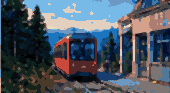
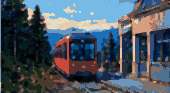
Add ambient background NPCs, cut from the already-uploaded concept pack
Ingrid asked to use assets that already exist in the pack instead of
leaving them unused. tools/build-pack-v2.py only ever cut two things
from assets/pack-v2/'s 15 concept sheets (locations, folklore); the
04_npc_tourists.png sheet has sat there unused since the pack was
first uploaded.

Connected-component analysis found the sheet's figures touch or
overlap at almost every column — one blob covers nearly the whole
image — so individual characters can't be isolated cleanly. What IS
separable, by measured column-density gaps (same method already used
for the location grid), are three natural clusters: a pair, a group
with a dog, and a family with an umbrella. Cut those, through the
same shared-palette + alpha-preserving pipeline already built for
locations and folklore (to_palette's keep_alpha flag now also covers
"npc"), registered in data/pack-v2.json like everything else the
script cuts.

New AMBIENT system in trail-mix-v2.html renders one of these vignettes
per chapter, at a shallow depth behind the tree line, capped at 50%
opacity so it always reads as background rather than competing with
Jack, Ingrid or a cast folklore being. Density follows
data/route.json's own npc_density per stop — except Sandviken sykehus,
deliberately left empty (folklore is banned there for the same
asylum-horror-trope reason; cheerful tourists would work against the
MEMORY theme the same way), and the forest, also left empty so an
[…]

diff --git a/trail-mix-v2.html b/trail-mix-v2.html
@@ -1727,6 +1727,78 @@
             }
         };
 
+        // Ambient background life — tourists and hikers passing at a distance.
+        // Pure decoration: no interaction, nothing to find, nothing written to
+        // the archive. Density per stop mirrors data/route.json's own
+        // npc_density field. Sandviken sykehus stays empty on purpose — that
+        // stop is folklore_permitted:false for the same asylum-horror-trope
+        // reason, and cheerful tourists would work against the MEMORY theme
+        // the same way a cast being would. The forest is also left empty even
+        // though its density is "sparse", so a passer-by is never mistaken
+        // for Huldra, who uses the same off-to-the-side treatment there.
+        var STOP_NPC = {
+            'sandviken-sykehus': null,
+            'munkebotn': 'hikers-pair',
+            'sandviksbatteriet': 'hikers-pair',
+            'sandvikspilen': 'hikers-group',
+            'forest-transition': null,
+            'floyen': 'hikers-family',
+            'floibanen': 'hikers-family'
+        };
+
+        var AMBIENT = {
+            live: [], art: {},
+            load: function () {
+                var self = this;
+                ['hikers-pair', 'hikers-group', 'hikers-family'].forEach(function (id) {
+                    var im = new Image();
+                    im.src = 'assets/npcs/' + id + '.png';
+                    self.art[id] = im;
+                });
+            },
+            seed: function (chapter) {
+                this.live = [];
+                var npc = STOP_NPC[STOP_IDS[chapter]];
+                if (!npc) return;
+                var len = CH[chapter].dist;
+                this.live.push({
+                    npc: npc, a: 0,
+                    world: len * (0.4 + Math.random() * 0.3),
+                    depth: 0.32 + Math.random() * 0.08,
+                    side: Math.random() < 0.5 ? -1 : 1
+                });
+            },
+            update: function (dt) {
+                this.live.forEach(function (g) {
+                    var near = Math.abs(g.world - S.dist) < 220;
+                    // Ambient life never reaches full strength — it stays
+                    // clearly background, whether or not the player stops.
+                    g.a = clamp(g.a + (near ? 1 : -1) * dt * 0.6, 0, 0.5);
+                });
+            },
+            screenX: function (g) {
+                var anchor = g.side < 0 ? W * 0.08 : W * 0.94;
+                return (g.world - S.dist) * g.depth + anchor;
+            },
+            draw: function () {
+                var self = this;
+                this.live.forEach(function (g) {
+                    if (g.a <= 0.01) return;
+                    var im = self.art[g.npc];
+                    if (!im || !im.complete || !im.naturalWidth) return;
+                    var x = Math.round(self.screenX(g));
+                    var h = Math.round((GROUND - 18) * 0.24 * g.depth + 22);
+                    var w = Math.round(h * (im.naturalWidth / im.naturalHeight));
+                    if (x + w / 2 < -40 || x - w / 2 > W + 40) return;
+                    var y = Math.round(GROUND - h + 4);
+                    ctx.save();
+                    ctx.globalAlpha = g.a;
+                    ctx.drawImage(im, Math.round(x - w / 2), y, w, h);
+                    ctx.restore();
+                });
+            }
+        };
+
         function archNoteBeing(b) {
             var a = archRead();
             a.beings = a.beings || [];
@@ -1789,6 +1861,7 @@
             S.items = [];
             S.nextItem = 40 + Math.random() * 50;
             BEINGS.seed(S.chapter);
+            AMBIENT.seed(S.chapter);
         }
 
         function spawnItem() {
@@ -2396,6 +2469,7 @@
             tile(tintCache('mid', '#241d38'), -S.cam * 0.18, 0.95);
             tile(tintCache('treeFar', '#141d18'), -S.cam * 0.42);
             drawFog(ch);
+            AMBIENT.draw();
             tile(tintCache('treeNear', '#0d140f'), -S.cam * 0.9);
             drawGround(ch);
             drawSign();
@@ -3083,6 +3157,7 @@
         }
 
         BEINGS.load();
+        AMBIENT.load();
 
         el('rmArchBtn').addEventListener('click', function () { archOpen(); });
         el('rmArchClose').addEventListener('click', function () { hide('rmArch'); });
@@ -3171,6 +3246,7 @@
             beatUpdate(dt);
             updateItems(dt);
             BEINGS.update(dt);
+            AMBIENT.update(dt);
 
             if (S.phase === 'walk' && S.walking) {
                 var speed = 76 * (0.82 + (S.energy / 100) * 0.36);

diff --git a/trail/sw.js b/trail/sw.js
@@ -1,5 +1,5 @@
 
-var CACHE = 'trailmix-trail-1709de78';
+var CACHE = 'trailmix-trail-bf7dedaa';
 var FILES = ["/assets/folklore/draugen.png", "/assets/folklore/fossegrimen.png", "/assets/folklore/huldra.png", "/assets/folklore/mare.png", "/assets/folklore/nisse.png", "/assets/folklore/nokken.png", "/assets/folklore/troll.png", "/assets/folklore/underjordiske.png", "/assets/locations/city-edge.png", "/assets/locations/floibanen-top.png", "/assets/locations/floyen.png", "/assets/locations/sandviken-sykehus.png", "/assets/locations/sandvikspilen.png", "/assets/locations/trail-forest.png", "/trail/", "/trail/floibanen/", "/trail/floyen/", "/trail/forest-transition/", "/trail/munkebotn/", "/trail/print.html", "/trail/sandviken-sykehus/", "/trail/sandviksbatteriet/", "/trail/sandvikspilen/"];
 self.addEventListener('install', function(e){
   e.waitUntil(caches.open(CACHE).then(function(c){

diff --git a/tools/build-pack-v2.py b/tools/build-pack-v2.py
@@ -62,6 +62,21 @@ FOLK_COLS = [(491, 543), (560, 609), (624, 702), (713, 776),
 FOLK_NAMES = ["huldra", "nokken", "troll", "fossegrimen",
               "draugen", "mare", "nisse", "underjordiske"]
 
+# NPC vignettes cut from 04_npc_tourists.png. The sheet's figures touch or
+# overlap at almost every column — connected-component analysis found one
+# blob covering nearly the whole image — so individual figures can't be
+# isolated cleanly. What IS separable are three natural clusters, bounded by
+# the sheet's only real gaps (measured by per-column pixel-density gaps,
+# same method as LAND_COLS above). Used as small ambient vignettes, not
+# individually posable sprites — consistent with what the source actually
+# supports rather than force-fitting a grid that isn't there.
+NPCS = [
+    # (crop box, output name)
+    ((0, 0, 106, 98), "hikers-pair"),
+    ((156, 0, 369, 98), "hikers-group"),
+    ((381, 0, 520, 98), "hikers-family"),
+]
+
 QUARANTINE_SHEETS = [
     ("12_history_archive.png",
      "Fabricated archival photographs carrying hallucinated captions and dates — "
@@ -227,7 +242,7 @@ def main():
 
     reg = {"_comment": "What tools/build-pack-v2.py cut from the concept pack, and "
                        "what it refused. Source art stays in assets/pack-v2/.",
-           "locations": [], "folklore": [], "quarantined": []}
+           "locations": [], "folklore": [], "npcs": [], "quarantined": []}
 
     # Pass one: cut every crop, in memory. Pass two: derive one palette from all
     # of them together, then write. The palette cannot be built until every crop
@@ -251,11 +266,19 @@ def main():
                       ROOT / "assets" / "folklore" / f"{name}.png",
                       "folklore", name, None, None))
 
+    npc_sheet_path = PACK / "04_npc_tourists.png"
+    if npc_sheet_path.exists():
+        npc_sheet = Image.open(npc_sheet_path).convert("RGBA")
+        for box, name in NPCS:
+            crops.append((autotrim(npc_sheet.crop(box)),
+                          ROOT / "assets" / "npcs" / f"{name}.png",
+                          "npc", name, None, None))
+
     palette = build_shared_palette([c[0] for c in crops])
 
     for img, dest, kind, name, stop, reason in crops:
         dest.parent.mkdir(parents=True, exist_ok=True)
-        to_palette(img, palette, keep_alpha=(kind == "folklore")).save(dest, optimize=True)
+        to_palette(img, palette, keep_alpha=(kind in ("folklore", "npc"))).save(dest, optimize=True)
         p = dest.relative_to(ROOT).as_posix()
         if kind == "quarantined":
             reg["quarantined"].append(
@@ -265,6 +288,12 @@ def main():
                                      "kind": "concept_art", "status": "unverified",
                                      "note": "Painted interpretation, not a photograph. "
                                              "Carries no factual claim."})
+        elif kind == "npc":
+            reg["npcs"].append({"id": name, "asset": p,
+                                "note": "Ambient background vignette, not an individually "
+                                        "posable character — the source sheet's figures "
+                                        "touch at almost every column, so a small cluster "
+                                        "is what the art actually supports."})
         else:
             reg["folklore"].append({"id": name, "asset": p, "kind": "imagined",
                                     "status": "unverified",
@@ -302,6 +331,7 @@ def main():
 
     print(f"locations cleared: {len(reg['locations'])}")
     print(f"folklore portraits: {len(reg['folklore'])}")
+    print(f"npc vignettes: {len(reg['npcs'])}")
     print(f"QUARANTINED: {len(reg['quarantined'])} — see assets/quarantine/README.md")
 
 
